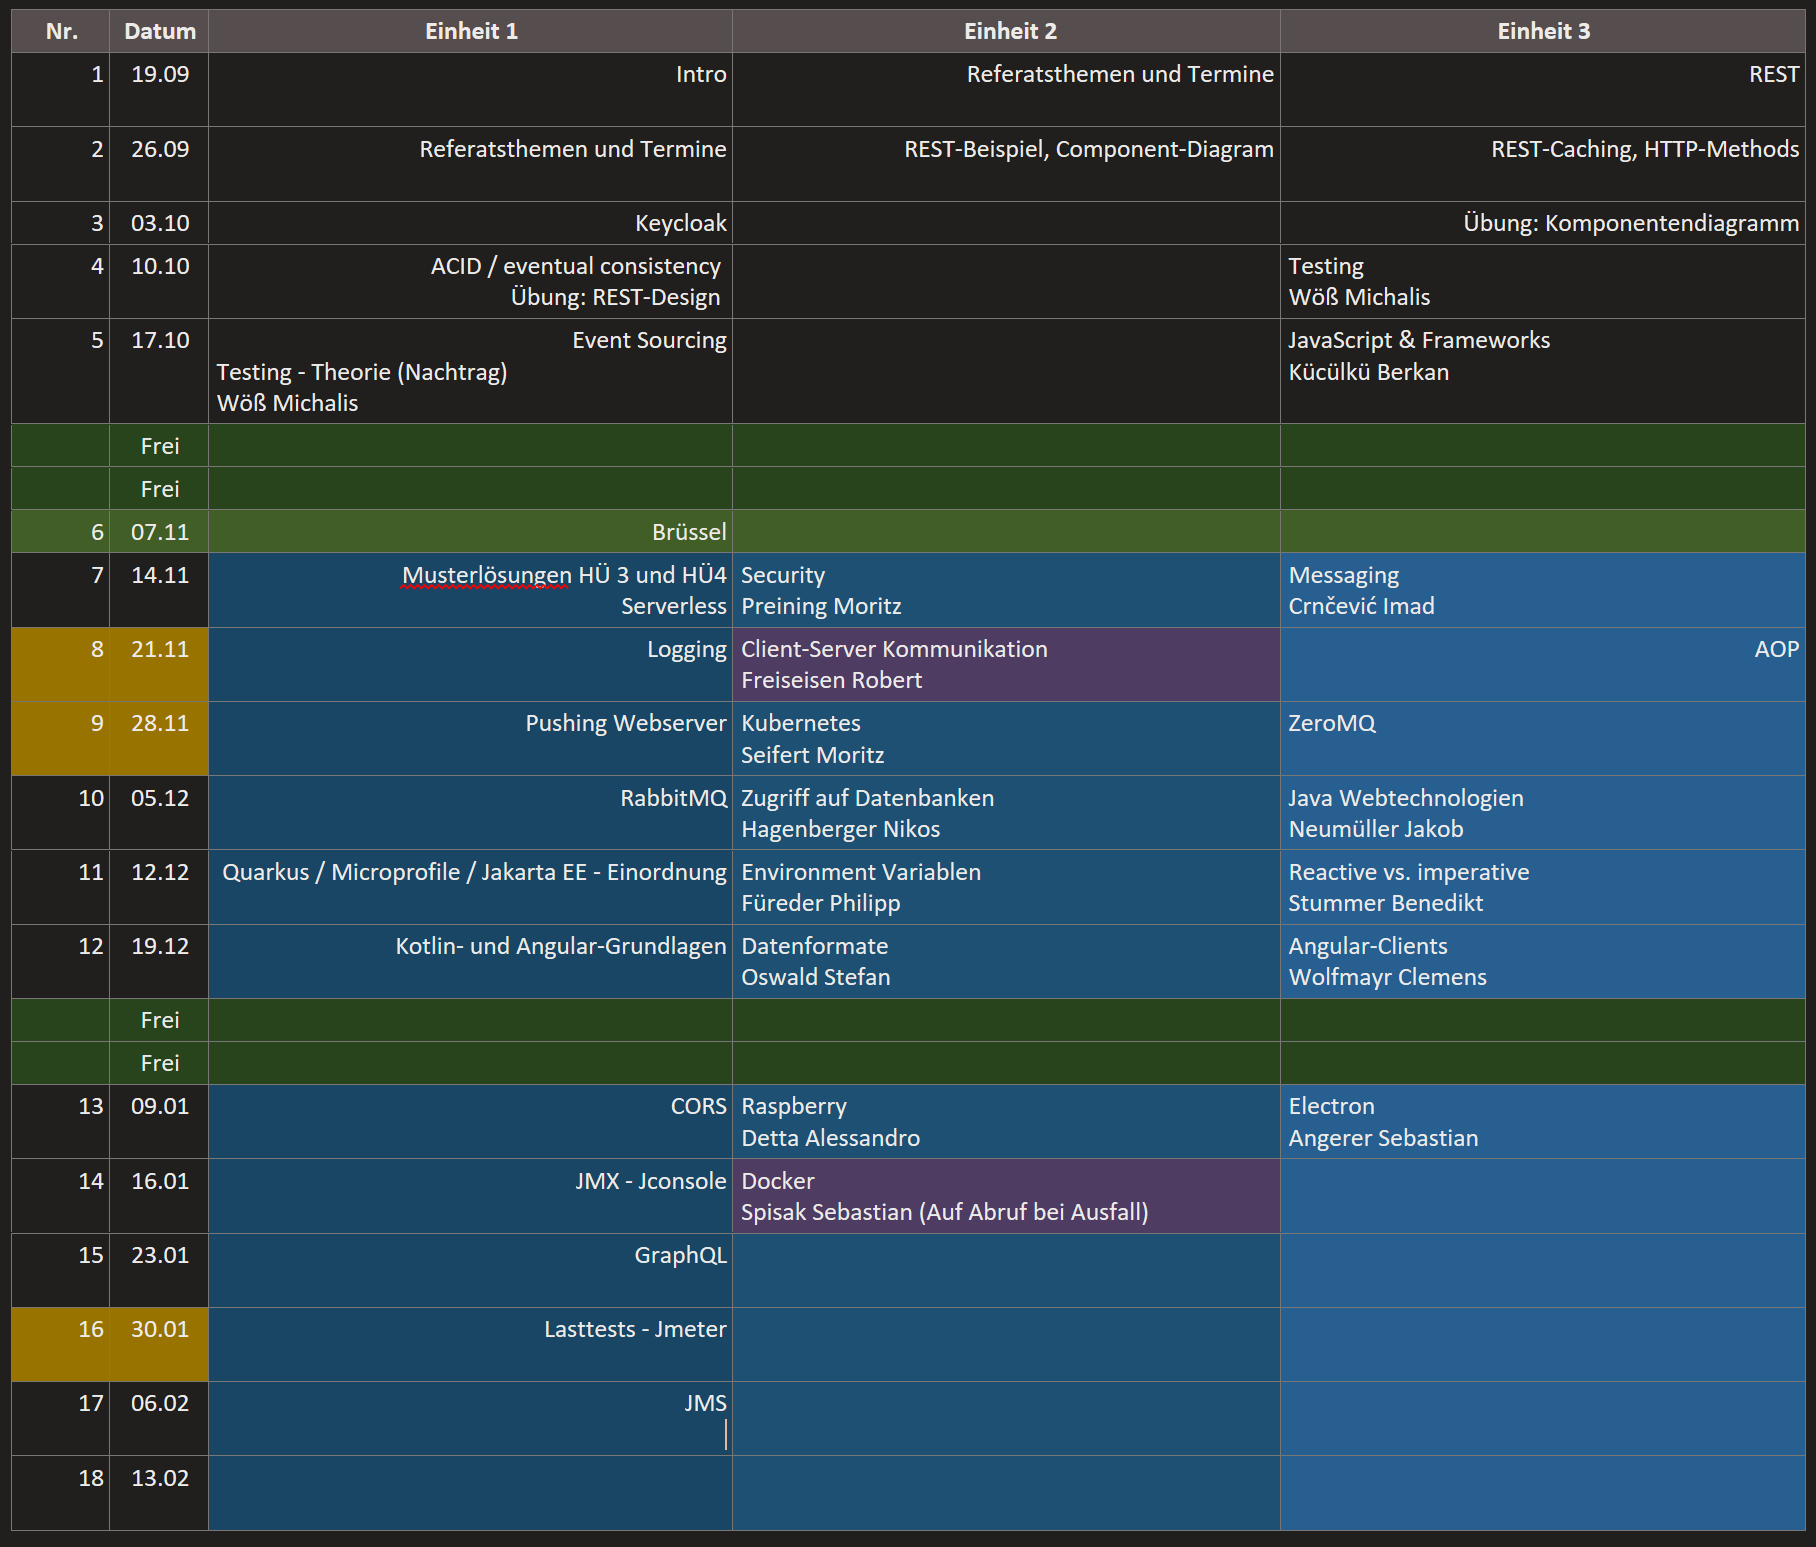
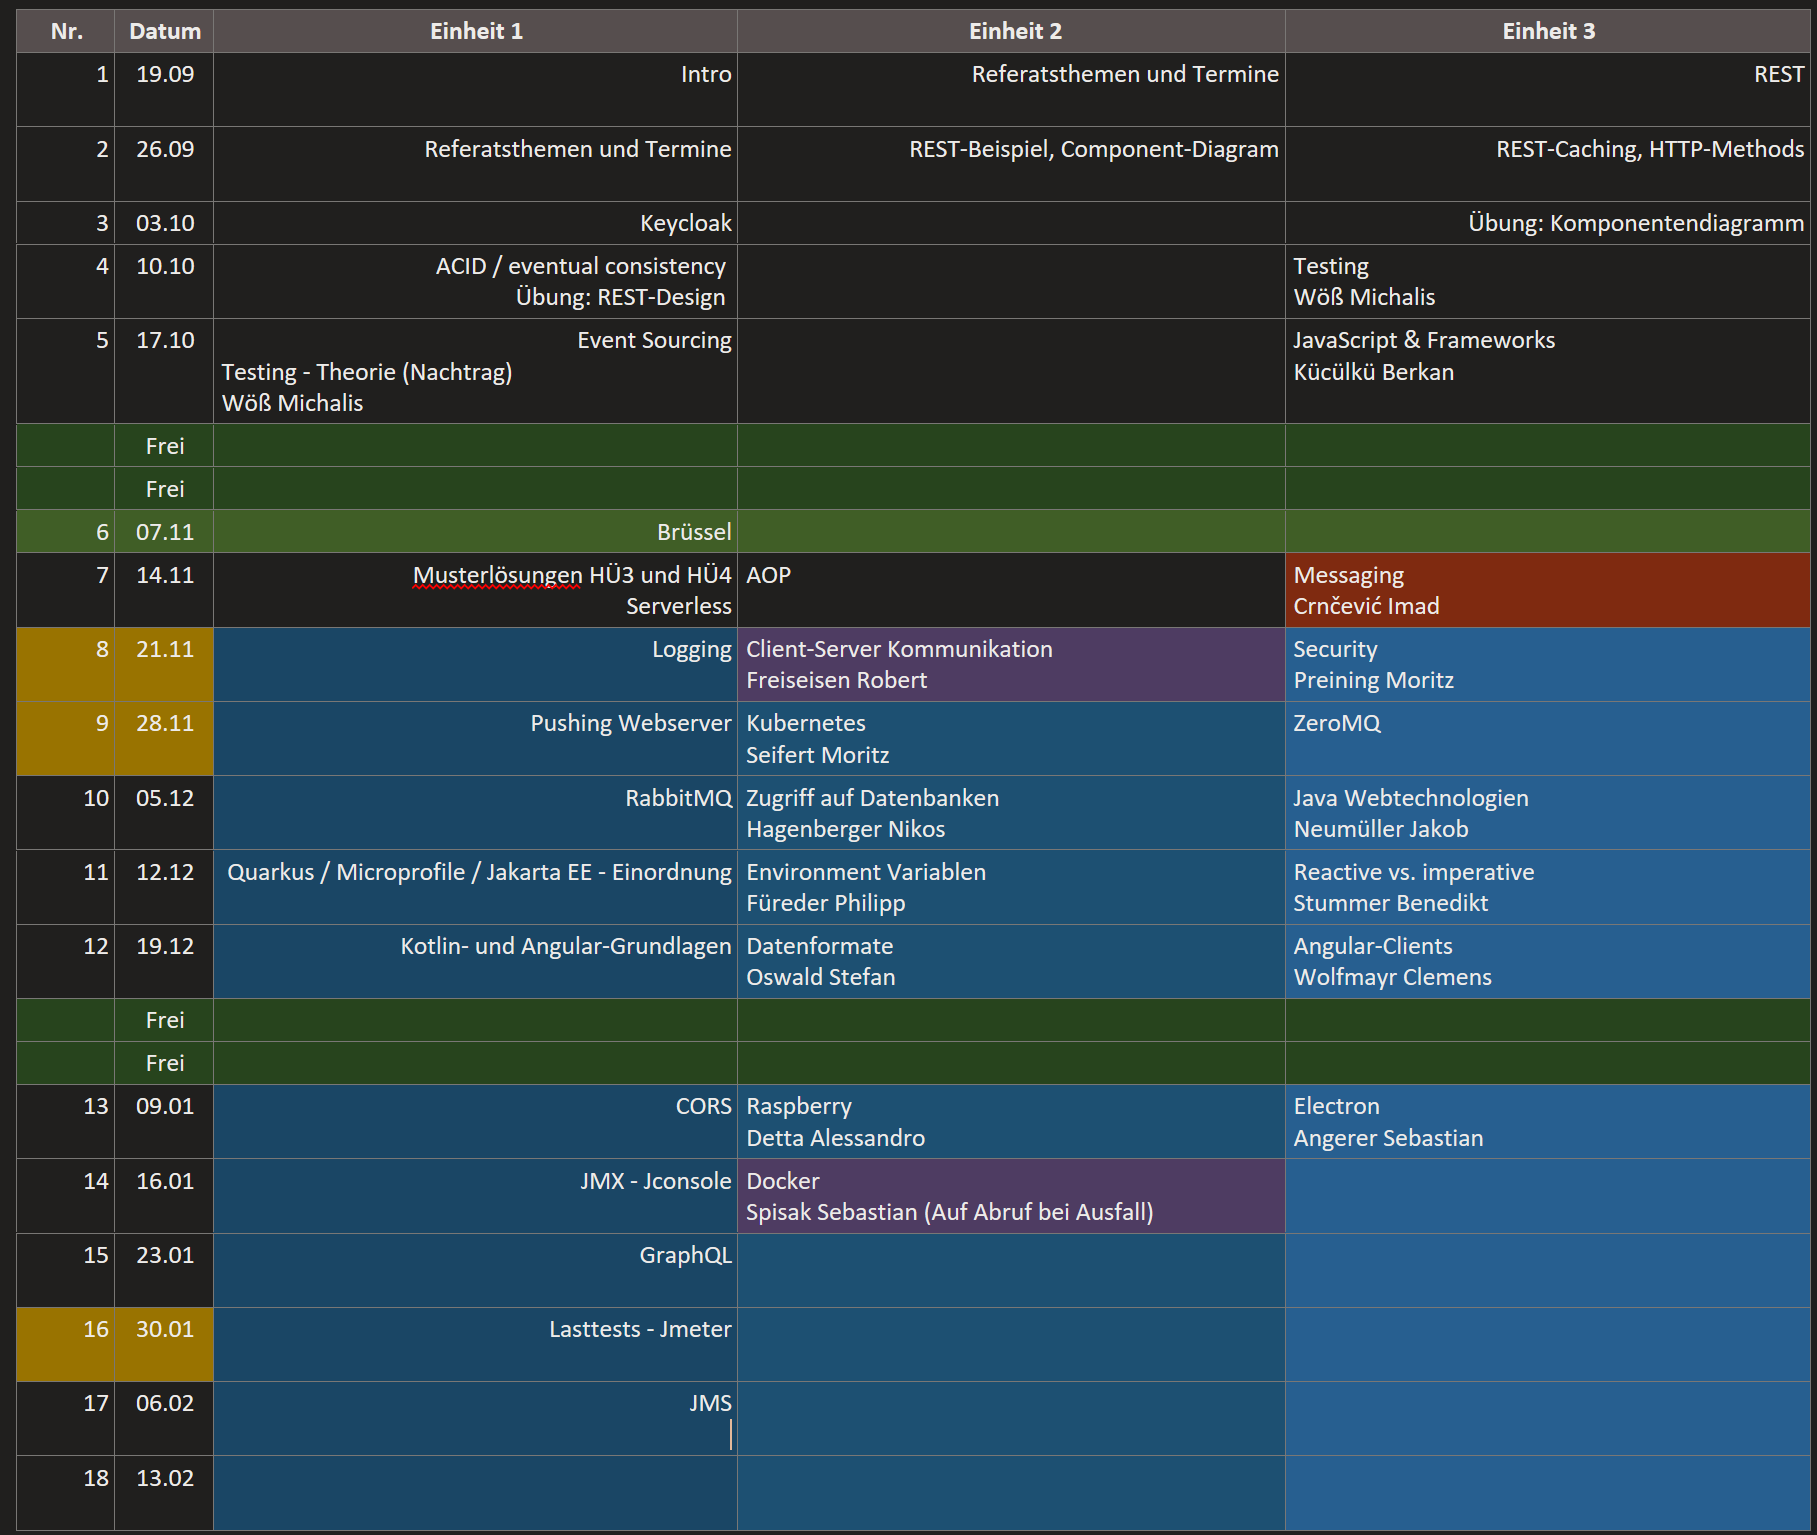
adds questions

diff --git a/5BHIF-NVSV.md b/5BHIF-NVSV.md
@@ -18,11 +18,50 @@ https://classroom.github.com/a/0pIFwT2Q
 
 
 
-## 5. Einheit 2022-10-17
+## 6. Einheit 2022-11-21
+
+* [Logging](https://github.com/UnterrainerInformatik/htl/blob/master/presentations/logging.pdf)
+* Fragen
+  * **ACID / BASE / Event Sourcing**
+    * Erklären Sie das CAP-Theorem.
+      * Wo würden Sie MariaDB platzieren?
+      * Wo würden Sie ein GIT-Projekt platzieren?
+
+    * Beschreiben Sie die ACID-Kriterien.
+    * Was ist Eventual Consistency und warum ist sie so wichtig für verteilte Systeme?
+    * Beschreiben Sie Event-Sourcing.
+      * Was sind die Vorteile?
+      * Was sind die Nachteile?
+
+  * **AOP**
+    Sie wurden von einer Firma beauftragt ein internes Caching innerhalb ihres Java-Stacks zu implementieren. Bestimmte Methoden, die lange laufen, sollen gechached werden und im Falle eines Cache-Hits soll das alte Ergebnis ausgeliefert werden.
+    Der Kunde verwendet Quarkus mit Panache als Backend.
+    * Nach welchen prinzipiellen Architekturschema würden Sie hier vorgehen?
+    * Welche beiden Möglichkeiten gibt es dieses Architekturschema zu verwenden?
+    * Nennen Sie Beispiele für Cross-Cutting-Concerns.
+    * Auf welche Art kann AOP in Quarkus angewandt werden und wie heißen die beiden Programmierkonstrukte die dabei benutzt werden können?
+      Zu welcher Library gehören diese beiden Teile?
+      Was ist der Unterschied zwischen ihnen?
+  * **Serverless**
+    Sie möchten in einem Betrieb beginnen, der eine Serverless-Architektur verwendet um ihr Produkt zu betreiben.
+    * Was sind die wesentlichen Bestandteile einer Serverless-Architektur?
+    * Was sind die wesentlichen Vorteile einer Serverless-Architektur?
+    * Was ist ein Cold-Start-Delay und wie kann man es zum Beispiel verhindern?
+    * Was ist ein Vendor-Lock-In und wie macht sich soetwas bemerkbar?
+
+
+### Hausübung
+
+Nichts
+
+
+
+## 5. Einheit 2022-11-14
 
 * Auflösung letzter Hausübung
 * [ACID/BASE/Event Sourcing Part 2](https://github.com/UnterrainerInformatik/htl/blob/master/presentations/acid-base-eventsourcing.pdf)
 * [Serverless](https://github.com/UnterrainerInformatik/htl/blob/master/presentations/serverless.pdf)
+* [Aspect Oriented Programming](https://github.com/UnterrainerInformatik/htl/blob/master/presentations/aop.pdf)
 
 ### Hausübung
 Nichts

diff --git a/5CHIF-NVSV.md b/5CHIF-NVSV.md
@@ -18,7 +18,34 @@ https://classroom.github.com/a/QTfc9_Zk
 
 
 
-## 5. Einheit 2022-10-17
+## 6. Einheit 2022-11-21
+
+* [Aspect Oriented Programming](https://github.com/UnterrainerInformatik/htl/blob/master/presentations/aop.pdf)
+* [Logging](https://github.com/UnterrainerInformatik/htl/blob/master/presentations/logging.pdf)
+* Fragen
+  * **ACID / BASE / Event Sourcing**
+    * Erklären Sie das CAP-Theorem.
+      * Wo würden Sie MariaDB platzieren?
+      * Wo würden Sie ein GIT-Projekt platzieren?
+    * Beschreiben Sie die ACID-Kriterien.
+    * Was ist Eventual Consistency und warum ist sie so wichtig für verteilte Systeme?
+    * Beschreiben Sie Event-Sourcing.
+      * Was sind die Vorteile?
+      * Was sind die Nachteile?
+  * **Serverless**
+    Sie möchten in einem Betrieb beginnen, der eine Serverless-Architektur verwendet um ihr Produkt zu betreiben.
+    * Was sind die wesentlichen Bestandteile einer Serverless-Architektur?
+    * Was sind die wesentlichen Vorteile einer Serverless-Architektur?
+    * Was ist ein Cold-Start-Delay und wie kann man es zum Beispiel verhindern?
+    * Was ist ein Vendor-Lock-In und wie macht sich soetwas bemerkbar?
+
+### Hausübung
+
+Nichts
+
+
+
+## 5. Einheit 2022-11-21
 
 * Auflösung letzter Hausübung
 * [ACID/BASE/Event Sourcing Part 2](https://github.com/UnterrainerInformatik/htl/blob/master/presentations/acid-base-eventsourcing.pdf)
